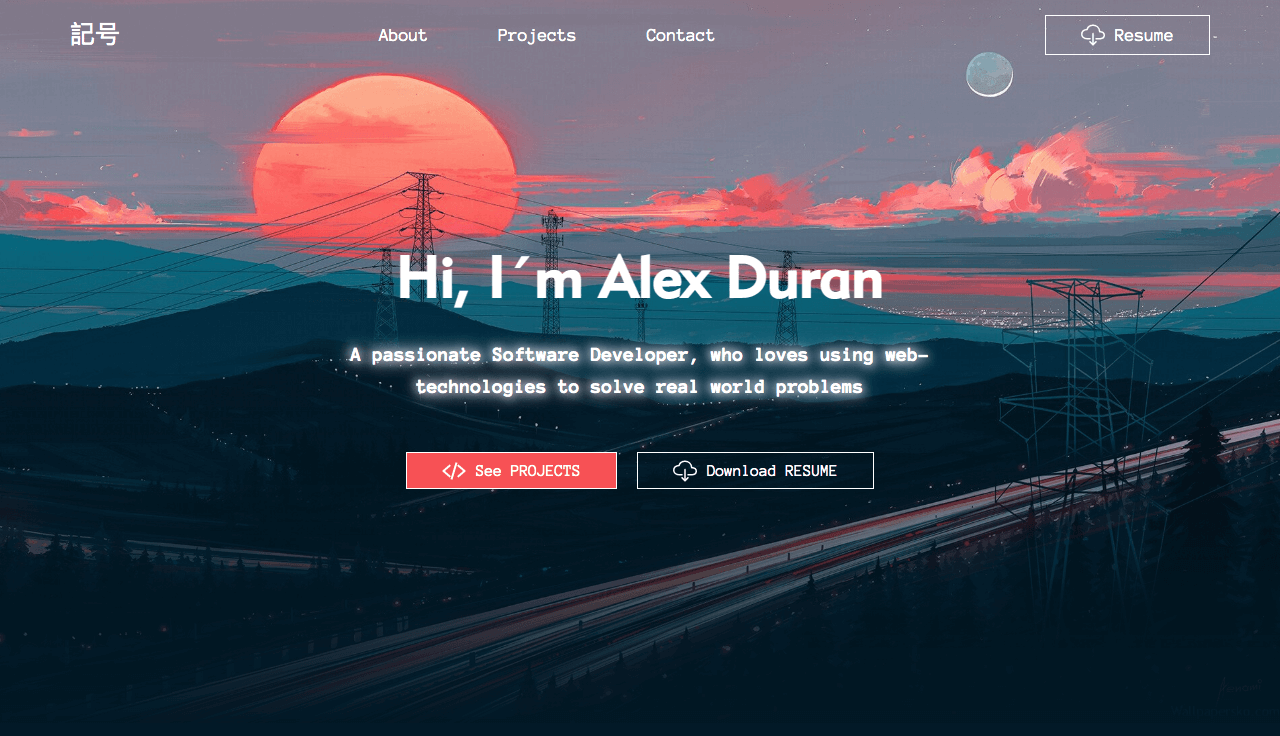
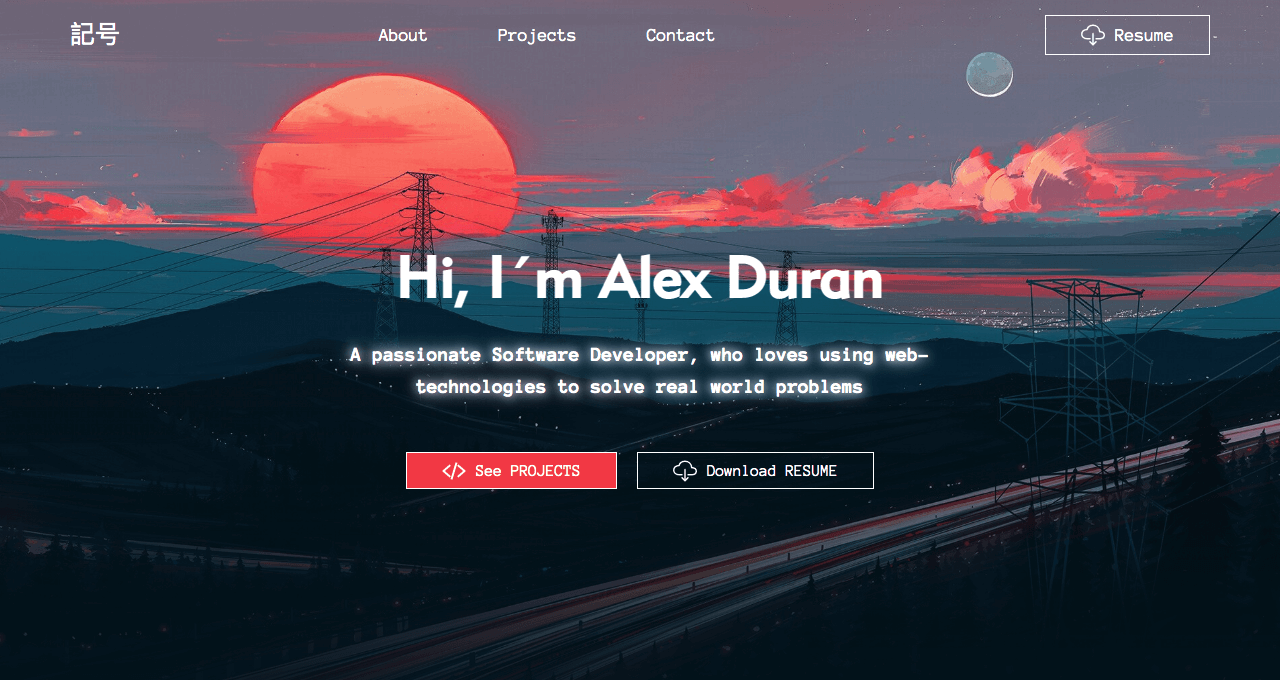
minor style update

diff --git a/src/components/layout.scss b/src/components/layout.scss
@@ -75,14 +75,15 @@
 
 
 $base: rgb(2, 25, 38);
-$baseTransparent: rgba(2, 25, 38, 0.24);
+$base_glass: rgba(2, 25, 38, 0.60);;
 
 $accent: rgba(247, 81, 85);
+$accent_glass: rgba(247, 81, 85, 0.60);
 
 $ligth: rgb(3, 50, 69);
 $dark: rgb(6, 31, 47);
 
-$gradient: linear-gradient(transparent 30%, $baseTransparent 50%, $base 100%);
+$gradient: linear-gradient(transparent 30%, $base_glass 50%, $base 100%);
 
 * {
     font-family: anonymous_pro;

diff --git a/src/pages/header.js b/src/pages/header.js
@@ -11,7 +11,7 @@ import code_icon from "../assets/icons/code-slash-sharp.svg"
 const Header = () => {
     return (
         <header id="header">
-            <h1>Hi, I´m Alex Duran</h1>
+            <h1>Hi, I'm Alex Duran</h1>
             <h3>A passionate Software Developer, who loves using web-technologies to solve real world problems</h3>
 
             <div className="header-buttons">

diff --git a/src/pages/index.scss b/src/pages/index.scss
@@ -43,8 +43,13 @@ nav {
 
 .glass {
     // background-color: $base;
-    background-color: rgba(2, 25, 38, 0.60);
+    background-color: $base_glass;
     backdrop-filter: blur( 30px );
+
+    .button {
+        background-color: $accent_glass;
+        backdrop-filter: blur( 30px );
+    }
 }
 
 
